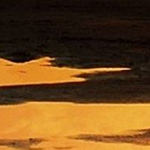
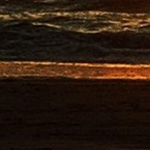
WIP

diff --git a/generate.go b/generate.go
@@ -33,7 +33,7 @@ func main() {
 
 			// Crop the image
 			x := ((i+1) * 76.0) + (i * 150.0)
-			y := 192.0 + (j * 150.0) + (j * 172.0)
+			y := 192.0 + (j * 150.0) + (j * 140.0)
 			cropArg := fmt.Sprintf("crop=150:150:%d:%d", x, y)
 			cmd = exec.Command("ffmpeg", "-i", "wallpaper_scaled.png", "-vf", cropArg, fileName)
 			var stderr bytes.Buffer
